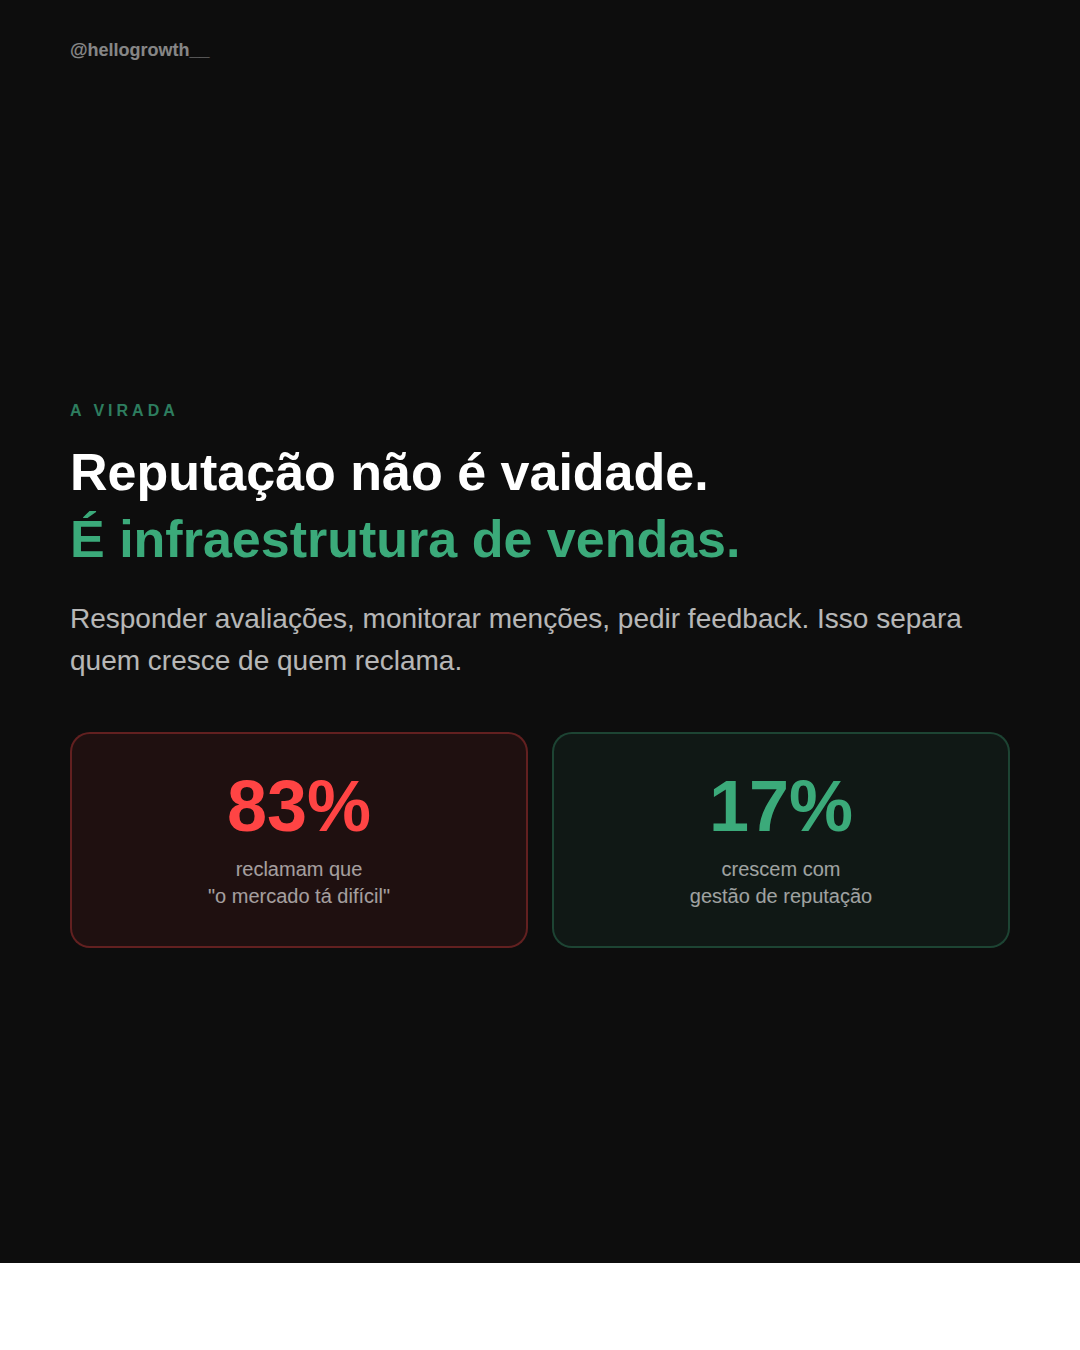
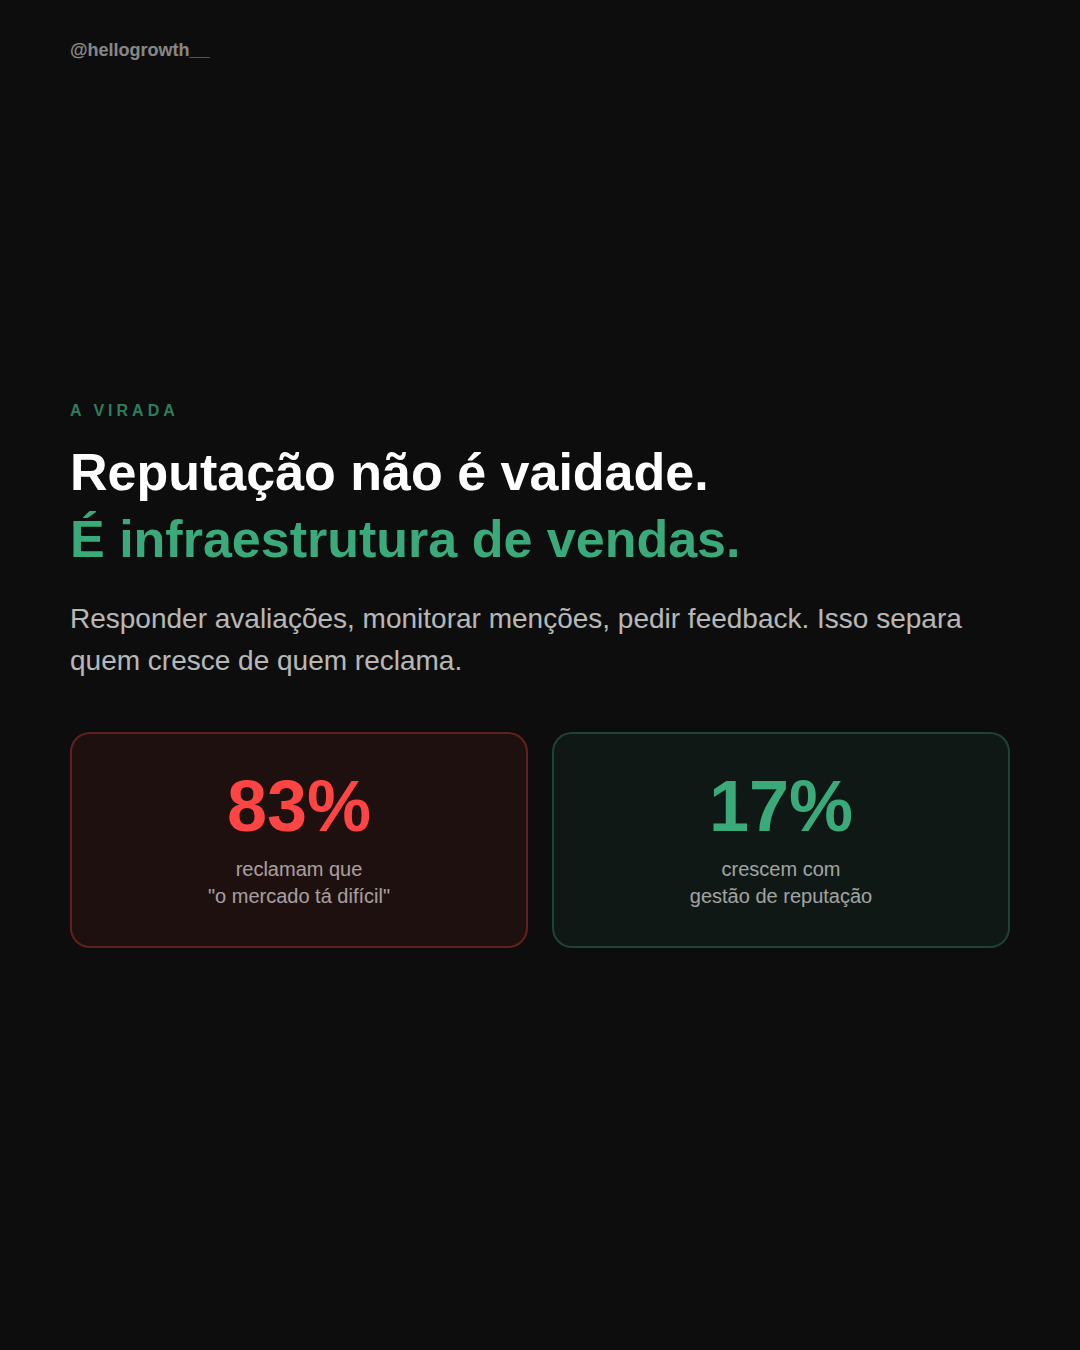
Fix carousel: Montserrat font + remove white line on all cards
- Changed font from Inter to Montserrat across all 7 cards
- Added html/body background #0d0d0d to eliminate white line at bottom
- Updated company.md with brand identity

https://claude.ai/code/session_01RXRUyw64HWp6pgoosUTsE4

Changed region(s): [[0.0, 0.9333, 1.0, 1.0]]

diff --git a/squads/social-content/output/2026-03-25-023004/v3/slides/card-07-cta.html b/squads/social-content/output/2026-03-25-023004/v3/slides/card-07-cta.html
@@ -2,10 +2,10 @@
 <html>
 <head>
 <meta charset="utf-8">
-<link href="https://fonts.googleapis.com/css2?family=Inter:wght@400;500;700;900&display=swap" rel="stylesheet">
+<link href="https://fonts.googleapis.com/css2?family=Montserrat:wght@400;500;700;900&display=swap" rel="stylesheet">
 <style>
 * { margin: 0; padding: 0; box-sizing: border-box; }
-body { width: 1080px; height: 1350px; font-family: 'Inter', sans-serif; overflow: hidden; }
+html { background: #0d0d0d; } body { background: #0d0d0d; width: 1080px; height: 1350px; font-family: 'Montserrat', sans-serif; overflow: hidden; }
 .card { width: 1080px; height: 1350px; padding: 70px; display: flex; flex-direction: column; justify-content: center; align-items: center; background: linear-gradient(160deg, #0d0d0d 0%, #0a1a14 100%); color: #fff; position: relative; text-align: center; }
 .handle { position: absolute; top: 40px; left: 70px; font-size: 18px; font-weight: 700; opacity: 0.5; }
 .headline { font-size: 56px; font-weight: 900; line-height: 1.1; margin-bottom: 20px; }

diff --git a/squads/social-content/output/2026-03-25-023004/v3/slides/card-04.html b/squads/social-content/output/2026-03-25-023004/v3/slides/card-04.html
@@ -2,10 +2,10 @@
 <html>
 <head>
 <meta charset="utf-8">
-<link href="https://fonts.googleapis.com/css2?family=Inter:wght@400;500;700;900&display=swap" rel="stylesheet">
+<link href="https://fonts.googleapis.com/css2?family=Montserrat:wght@400;500;700;900&display=swap" rel="stylesheet">
 <style>
 * { margin: 0; padding: 0; box-sizing: border-box; }
-body { width: 1080px; height: 1350px; font-family: 'Inter', sans-serif; overflow: hidden; }
+html { background: #0d0d0d; } body { background: #0d0d0d; width: 1080px; height: 1350px; font-family: 'Montserrat', sans-serif; overflow: hidden; }
 .card { width: 1080px; height: 1350px; position: relative; overflow: hidden; }
 .bg-photo { position: absolute; top: 0; left: 0; width: 100%; height: 100%; background: url('gamma-photo-card04.png') center/cover no-repeat; }
 .overlay { position: absolute; top: 0; left: 0; width: 100%; height: 100%; background: linear-gradient(to bottom, rgba(13,13,13,0.25) 0%, rgba(13,13,13,0.75) 45%, rgba(13,13,13,0.96) 100%); }

diff --git a/squads/social-content/output/2026-03-25-023004/v3/slides/card-01-cover.html b/squads/social-content/output/2026-03-25-023004/v3/slides/card-01-cover.html
@@ -2,10 +2,10 @@
 <html>
 <head>
 <meta charset="utf-8">
-<link href="https://fonts.googleapis.com/css2?family=Inter:wght@400;500;700;900&display=swap" rel="stylesheet">
+<link href="https://fonts.googleapis.com/css2?family=Montserrat:wght@400;500;700;900&display=swap" rel="stylesheet">
 <style>
 * { margin: 0; padding: 0; box-sizing: border-box; }
-body { width: 1080px; height: 1350px; font-family: 'Inter', sans-serif; overflow: hidden; }
+html { background: #0d0d0d; } body { background: #0d0d0d; width: 1080px; height: 1350px; font-family: 'Montserrat', sans-serif; overflow: hidden; }
 .card { width: 1080px; height: 1350px; position: relative; overflow: hidden; }
 .bg-photo { position: absolute; top: 0; left: 0; width: 100%; height: 100%; background: url('gamma-photo-cover.png') center/cover no-repeat; }
 .overlay { position: absolute; top: 0; left: 0; width: 100%; height: 100%; background: linear-gradient(to bottom, rgba(13,13,13,0.15) 0%, rgba(13,13,13,0.65) 45%, rgba(13,13,13,0.95) 100%); }

diff --git a/squads/social-content/output/2026-03-25-023004/v3/slides/card-02.html b/squads/social-content/output/2026-03-25-023004/v3/slides/card-02.html
@@ -2,10 +2,10 @@
 <html>
 <head>
 <meta charset="utf-8">
-<link href="https://fonts.googleapis.com/css2?family=Inter:wght@400;500;700;900&display=swap" rel="stylesheet">
+<link href="https://fonts.googleapis.com/css2?family=Montserrat:wght@400;500;700;900&display=swap" rel="stylesheet">
 <style>
 * { margin: 0; padding: 0; box-sizing: border-box; }
-body { width: 1080px; height: 1350px; font-family: 'Inter', sans-serif; overflow: hidden; }
+html { background: #0d0d0d; } body { background: #0d0d0d; width: 1080px; height: 1350px; font-family: 'Montserrat', sans-serif; overflow: hidden; }
 .card { width: 1080px; height: 1350px; position: relative; overflow: hidden; }
 .bg-photo { position: absolute; top: 0; left: 0; width: 100%; height: 100%; background: url('gamma-photo-card02.png') center/cover no-repeat; }
 .overlay { position: absolute; top: 0; left: 0; width: 100%; height: 100%; background: linear-gradient(to bottom, rgba(13,13,13,0.2) 0%, rgba(13,13,13,0.7) 45%, rgba(13,13,13,0.96) 100%); }

diff --git a/squads/social-content/output/2026-03-25-023004/v3/slides/card-03.html b/squads/social-content/output/2026-03-25-023004/v3/slides/card-03.html
@@ -2,10 +2,10 @@
 <html>
 <head>
 <meta charset="utf-8">
-<link href="https://fonts.googleapis.com/css2?family=Inter:wght@400;500;700;900&display=swap" rel="stylesheet">
+<link href="https://fonts.googleapis.com/css2?family=Montserrat:wght@400;500;700;900&display=swap" rel="stylesheet">
 <style>
 * { margin: 0; padding: 0; box-sizing: border-box; }
-body { width: 1080px; height: 1350px; font-family: 'Inter', sans-serif; overflow: hidden; }
+html { background: #0d0d0d; } body { background: #0d0d0d; width: 1080px; height: 1350px; font-family: 'Montserrat', sans-serif; overflow: hidden; }
 .card { width: 1080px; height: 1350px; padding: 70px; display: flex; flex-direction: column; justify-content: center; background: #0d0d0d; color: #fff; position: relative; }
 .handle { position: absolute; top: 40px; left: 70px; font-size: 18px; font-weight: 700; opacity: 0.5; }
 .label { font-size: 16px; font-weight: 800; text-transform: uppercase; letter-spacing: 4px; color: #2D7D5F; margin-bottom: 24px; }

diff --git a/squads/social-content/output/2026-03-25-023004/v3/slides/card-05.html b/squads/social-content/output/2026-03-25-023004/v3/slides/card-05.html
@@ -2,10 +2,10 @@
 <html>
 <head>
 <meta charset="utf-8">
-<link href="https://fonts.googleapis.com/css2?family=Inter:wght@400;500;700;900&display=swap" rel="stylesheet">
+<link href="https://fonts.googleapis.com/css2?family=Montserrat:wght@400;500;700;900&display=swap" rel="stylesheet">
 <style>
 * { margin: 0; padding: 0; box-sizing: border-box; }
-body { width: 1080px; height: 1350px; font-family: 'Inter', sans-serif; overflow: hidden; }
+html { background: #0d0d0d; } body { background: #0d0d0d; width: 1080px; height: 1350px; font-family: 'Montserrat', sans-serif; overflow: hidden; }
 .card { width: 1080px; height: 1350px; padding: 70px; display: flex; flex-direction: column; justify-content: center; background: #0d0d0d; color: #fff; position: relative; }
 .handle { position: absolute; top: 40px; left: 70px; font-size: 18px; font-weight: 700; opacity: 0.5; }
 .label { font-size: 16px; font-weight: 800; text-transform: uppercase; letter-spacing: 4px; color: #2D7D5F; margin-bottom: 30px; }

diff --git a/squads/social-content/output/2026-03-25-023004/v3/slides/card-06.html b/squads/social-content/output/2026-03-25-023004/v3/slides/card-06.html
@@ -2,10 +2,10 @@
 <html>
 <head>
 <meta charset="utf-8">
-<link href="https://fonts.googleapis.com/css2?family=Inter:wght@400;500;700;900&display=swap" rel="stylesheet">
+<link href="https://fonts.googleapis.com/css2?family=Montserrat:wght@400;500;700;900&display=swap" rel="stylesheet">
 <style>
 * { margin: 0; padding: 0; box-sizing: border-box; }
-body { width: 1080px; height: 1350px; font-family: 'Inter', sans-serif; overflow: hidden; }
+html { background: #0d0d0d; } body { background: #0d0d0d; width: 1080px; height: 1350px; font-family: 'Montserrat', sans-serif; overflow: hidden; }
 .card { width: 1080px; height: 1350px; padding: 70px; display: flex; flex-direction: column; justify-content: center; background: #0d0d0d; color: #fff; position: relative; }
 .handle { position: absolute; top: 40px; left: 70px; font-size: 18px; font-weight: 700; opacity: 0.5; }
 .label { font-size: 16px; font-weight: 800; text-transform: uppercase; letter-spacing: 4px; color: #2D7D5F; margin-bottom: 24px; }
